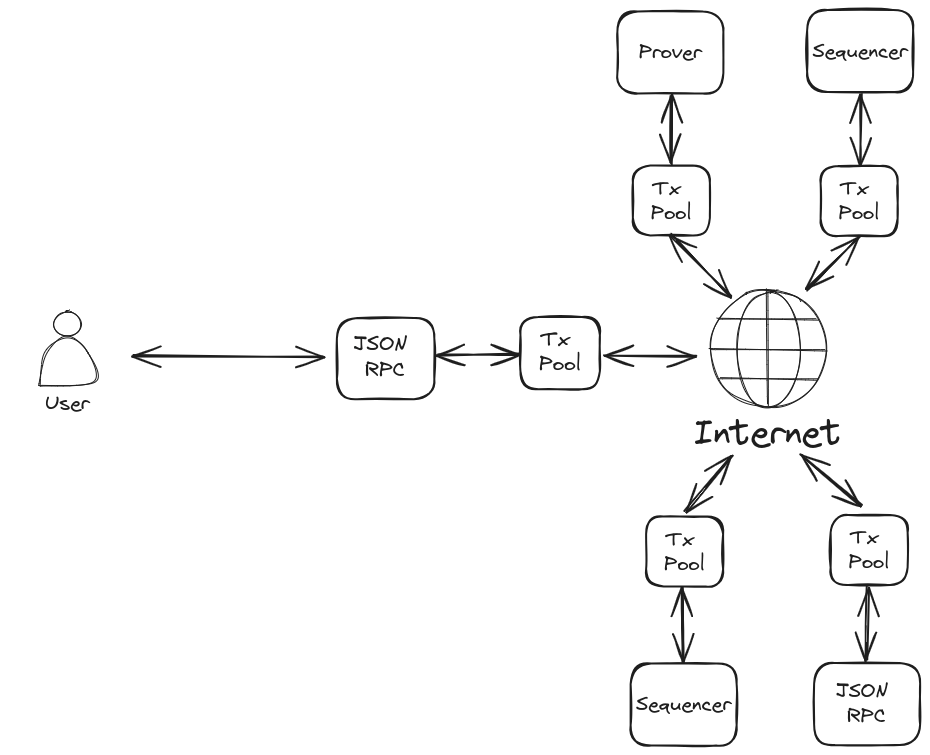
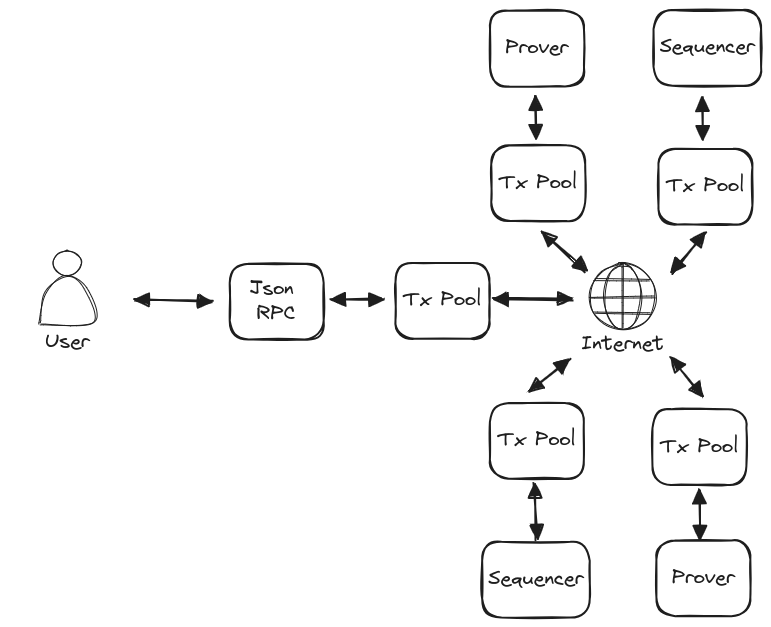
docs: Updated yellow paper P2P network. (AztecProtocol/aztec-packages#4652)
This PR contains updates to the P2P section of the yellow paper.

Changed region(s): [[0.0311, 0.0, 0.9961, 1.0]]

diff --git a/yellow-paper/docs/decentralization/p2p-network.md b/yellow-paper/docs/decentralization/p2p-network.md
@@ -1,12 +1,18 @@
 # P2P Network
 
-<!-- Also incorporate Phil's latest hackmd on the p2p network, if his recommendations in that hackmd are agreed to be our approach -->
-
 ## Requirements for a P2P Network
 
 When a rollup is successfully published, the state transitions it produces are published along with it, making them publicly available. This broadcasted state does not depend on the Aztec network for its persistence or distribution. Transient data however, such as pending user transactions for inclusion in future rollups, does rely on the network for availability. It is important that the network provides a performant, permissionless and censorship resistant mechanism for the effective propagation of these transactions to all network participants. Without this, transactions may be disadvantaged and the throughput of the network will deteriorate.
 
-Other data that may be transmitted over the network are the final rollup proofs to be submitted to the rollup contract, however the size and rate of these payloads should not make any meaningful impact on the bandwidth requirements.
+We can derive the following broad requirements of the P2P network.
+
+1. Support a node count up to approximately 10000.
+2. Enable new participants to join the network in a permissionless fashion.
+3. Propagate user transactions quickly and efficiently, throughout the network.
+4. Provide protection against DoS, eclipse and sybil attacks.
+5. Support a throughput of at least 10 transactions per second.
+6. Support transaction sizes of ~40Kb.
+7. Minimise bandwidth requirements overall and on any given node.
 
 ### Network Participants
 
@@ -17,41 +23,180 @@ For the purpose of this discussion, we define the 'Aztec Network' as the set of 
 - Transaction Pool Nodes - responsible for maintaining a local representation of the pending transaction pool
 - Bootnodes - responsible for providing an entrypoint into the network for new participants
 
-Sequencers and Provers will likely run their own transaction pools but it is important that the ability to do so is not limited to these participants. Anyone can operate a transaction pool, providing increased privacy and censorship resistance.
+These participants will likely operate an instance of the [Aztec Node](./actors.md) configured for their specific purpose. The Transaction Pool Node listed above is intended to describe a node with the minimum amount of functionality required to fulfill the needs of a PXE. Namely access to the global transaction pool and an up-to-date instance of the [state](../state/index.md).
 
-Client PXEs will not interact directly with the network but instead via instances of the Aztec Node and it's JSON RPC interface. The Aztec Node in turn will publish user transactions to the network.
+Anyone can operate an instance of the Aztec Node configured to serve their needs, providing increased privacy and censorship resistance.
 
-### Network Topology and Transaction Submission
-
-The network will likely be based on the LibP2P specification.
-
-#### Discovery
-
-When a node such as a sequencer joins the network for the first time it will need to contact a bootnode. This will be one of a hardcoded set of nodes whose sole purpose is to provide an initial set of peers to connect with. Once a node has made contact with and stored address data for a number of peers it should no longer need to contact the bootnodes, provided it's peers remain available.
-
-#### Gossip
-
-Transactions will need to be propagated throughout the network, to every participant. Due to the size of the transaction payloads it will be necessary to ensure that transaction propagation is performed as efficiently as possible taking steps to reduce the amount of redundant data transfer.
-
-#### Client Interactions
-
-Aztec Node instances will offer a JSON RPC interface for consumption by a user's PXE. Part of this API will facilitate transaction submission directly to the node which will then forward it to the network via the transaction pool.
+Client PXEs will interact with instances of the Aztec Node via it's JSON RPC interface.
 
 ![P2P Network](./images/network.png)
 
-### Network Bandwidth
+### Transaction Size
 
-Transactions are composed of several data elements and can vary in size. The transaction size is determined largely by the private kernel proof and whether the transaction deploys any public bytecode. A typical transaction that: emits a private note and an unencrypted log, makes a public call and contains a valid proof, would consume approximately 40Kb of data. A transaction that additionally deploys a contract would need to transmit the public bytecode on top of this.
+[Transactions](../transactions/index.md) are composed of several data elements and can vary in size, determined largely by the private kernel proof and whether the transaction deploys any public bytecode. A typical transaction data footprint is shown in the following table. Any deployed contract bytecode would be in addition to this.
 
 | Element                                      | Size  |
 | -------------------------------------------- | ----- |
 | Public Inputs, Public Calls and Emitted Logs | ~8KB  |
 | Private Kernel Proof                         | ~32KB |
 
-If we take 2 values of transaction throughput of 10 and 100 transactions per second, we can arrive at average network bandwidth requirements of 400KB and 4000KB per second respectively.
 
 ### Sequencer-to-Prover Communication
 
 Proving is an out-of-protocol activity. The nature of the communication between sequencers and provers will depend entirely on the prover/s selected by the sequencer. Provers may choose to run their own Transaction Pool Node infrastructure so that they are prepared for generating proofs and don't need to receive this data out-of-band.
 
-Although proving is an out-of-protocol activity, it may be necessary for the final rollup proof to be gossiped over the P2P network such that anyone can submit it to the rollup contract.
+## LibP2P
+
+Aztec will build it's network on [LibP2P](https://docs.libp2p.io/) and the suite of technologies that it contains. LibP2P has demonstrated it's capabilities as the set of protocols employed by Ethereum's consensus layer. Clients of the network will need to use a subset of LibP2P's protocols.
+
+There will be 2 primary communication domains within the network:
+
+1. Node Discovery
+2. Transaction Gossip
+
+### Node Discovery
+
+When new participants join the network for the first time, they will need to locate peers. Ethereum's [DiscV5](https://github.com/ethereum/devp2p/blob/master/discv5/discv5.md) is an adaptation of Kademlia, storing node records rather than content within its distributed hash table. From this, nodes are able to build what can be thought of as an address book of other participants.
+
+#### DiscV5
+
+Whilst the DiscV5 specification is still under development, the protocol is currently in use by Ethereum's consensus layer with 100,000s of participants. Nodes maintain a DHT routing table of Ethereum Node Records (ENRs), periodically flushing nodes that are no longer responsive and searching for new nodes by requesting records from their neighbours.
+
+Neighbours in this sense are not necessarily in geographical proximity. Node distance is defined as the bitwise XOR of the nodes 32 bit IDs.
+
+```
+distance(Id1, Id2) = Id1 XOR Id2
+```
+
+In some situations these distances are placed into buckets by taking the logarithmic distance.
+
+```
+log_distance(Id1, Id2) = log2(distance(Id1, Id2))
+```
+
+In principle, an ENR is simply an arbitrary set of key/value pairs accompanied by a sequence number and signed by the author node's private key. In order to be included in and propagated around the DHT, the ENR must contain the node's dialable IP address and port.
+
+##### Transport
+
+The underlying transport for DiscV5 communication is UDP. Whilst UDP is not reliable and connectionless, it has much lower overhead than TCP or other similar protocols making it ideal for speculative communication with nodes over the discovery domain. It does mean that UDP communication is a requirement for nodes wishing to participate.
+
+##### Bootstrapping
+
+When a node wishes to join the network for the first time. It needs to locate at least 1 initial peer in order to 'discover' other nodes. This role is performed by known public 'bootnodes'. Bootnodes may not be full network participants, they may simply be entrypoints containing well populated routing tables for nodes to query. 
+
+##### Topics
+
+Topics are part of the DiscV5 specification, though the spec is as yet unfinished and implementations do not yet exist. The intention of topics is for the Ethereum P2P network to efficiently support any number of applications under the same discovery scheme. To date, many other applications use Ethereum's discovery network but the only way to 'discover' other nodes for the same application is to query nodes at random and interrogate them. Topics will allow this to be done more efficiently with nodes being able to 'advertise' themselves as supporting specific applications across the network. 
+
+##### DiscV5 on Aztec
+
+:::danger
+The intention here is to use Ethereum's DiscV5 discovery network. This has not bees prototyped and is as yet untested. The alternative would be for Aztec nodes to form their own DiscV5 network, which would still work but wouldn't inherit the security proprties of Ethereum's. We need to more work to understand this.
+:::
+
+Using Ethereum's DiscV5 network will have significant benefits for Aztec. Network security and resistance to censorship, sybil and eclipse attacks grows as the network gets larger. In the early days of the network, node discovery may be slow as the number of Aztec nodes will be small as a proportion of the network. This can be better understood with the deployment of testnets. Over time, as the network grows and we hopefully see the introduction of topics this node discovery process will improve.
+
+##### Aztec ENRs
+
+The node record for an Aztec node will contain the following key/value pairs. The network endpoints don't all need to be specified but nodes will require at least one ip address and port. The public key is required to verify the signature included with the node record. The id is the identity scheme with "v4" being that currently used by Ethereum.
+
+
+| key | value |
+| -------- | -------- |
+| id     | "v4"     |
+| secp256k1     | The node's public key     |
+| ip     | ipv4 address     |
+| tcp     | tcp port     |
+| ip6     | ipv6 address     |
+| tcp6     | tcp port for v6 address     |
+| aztec | The aztec chain id |
+| eth | The ethereum chain id |
+
+### Transaction Gossip
+
+#### Transports
+
+LibP2P clients specify 1 or more types of transport for communicating with other nodes. Clients must specify at least the TCP transport for use within the Aztec Network. Clients may optionally specify other, more sophisticated transports but it is not guaranteed that other nodes will support them.
+
+Clients must accept connections on either IPV4, IPV6 or both. They must be able to dial both IPv4 and IPV6 addresses.
+
+Clients behind a NAT must be publically dialable and they must provide their publically dialable endpoint in their ENR. They must have their infrastructure configured to route traffic received at the dialable endpoint to the local listener.
+
+#### Multiplexing
+
+LibP2P supports the multiplexing of stream based transports such as TCP. There are 2 widely implemented multiplexing modules within LibP2P, [mplex](https://docs.libp2p.io/concepts/multiplex/mplex/) and the more sophisticated [yamux](https://docs.libp2p.io/concepts/multiplex/yamux/). Clients must be configured to support mplex and may choose to support yamux.
+
+#### Encryption handshake
+
+Communication between nodes within LibP2P is encrypted. This is important to protect individual nodes and the network at large from malicious actors. Establishing keys requires a secure handshake protocol. Client's must specify LibP2P's [noise](https://docs.libp2p.io/concepts/secure-comm/noise/) protocol for this purpose. 
+
+#### GossipSub
+
+LibP2P's [GossipSub](https://docs.libp2p.io/concepts/pubsub/overview/) is a protocol that provides efficient propagation of transient messages to all participants of the gossip domain. Peers congregate around topics that they subscribe to and publish on the network. Each topic's network is further divided into 2 layers of peering.
+
+1. Full Message Peers - A sparsely connected network gossiping the complete contents of every message
+2. Metadata Only Peers - A densely connected network gossiping only message metadata
+
+Peerings are bidirectional, meaning that for any two connected peers, both peers consider their connection to be full-message or both peers consider their connection to be metadata-only.
+
+Either peer can change the type of connection in either direction at any time. Peers periodically evaluate their peerings and attempt to balance the number of each type of peering to a configured range. The peering degree being the configured optimal number of full messages peers for each node. Generally speaking, a higher peering degree will result in faster message propagation to all peers at the expense of increased message duplication.
+
+These layers ensure that all messages are efficiently propagated throughout the network whilst significantly reducing redundant traffic and lowering bandwidth requirements.
+
+##### Peer Scoring
+
+To maintain the health of the network, peers are scored based on their behaviour. Peers found to misbehave are penalised on a sliding scale from a reluctance to convert them to full message peers to refusing to gossip with them altogether.
+
+##### Message Validation
+
+The gossipsub protocol requests message validation from the application. Messages deemed invalid are discarded and not propagated further. The application can specify whether the validation failure warrants the source peer being penalised for transmitting it.
+
+##### Message Cache
+
+Clients maintain a cache of recently seen messages from which other peers can request messages that they haven't received. Typically this would be used by metadata only peers who haven't received the complete message to do so. Messages are held in the cache for a configurable length of time, though this is usually just a few seconds.
+
+#### GossipSub on Aztec
+
+Aztec will use LibP2P's GossipSub protocol for transaction propagation. Nodes must support this protocol along with the v1.1 extensions and publish/subscribe to the topic `/aztec/{aztec-chainid}/tx/{message-version}`. The inclusion of `{message-version}` within the topic allows for the message specification to change and clients of the network will have to migrate to the new topic. We will aim to strike a balance between message propagation speed and lowering overall bandwidth requirements. Aztec block times will typically be 5-10 minutes so provided the network operates quickly enough for a user's transaction to be considered for inclusion in the 'next' block, the network can be optimised to reduce redundant gossiping.
+
+The table below contains some of the relevant configuration properties and their default values. These parameters can be validated on testnet but it is expected that for the Aztec network, clients would use similar values, perhaps reducing peering degree slightly to favour reduced bandwidth over message propagation latency.
+
+
+| Parameter | Description | Value |
+| -------- | -------- | -------- |
+| D     | The desired peering degree     | 6     |
+| D_low     | The peering degree low watermark     | 4     |
+| D_high     | The peering degree high watermark     | 12     |
+| heartbeat_interval     | The time between heartbeats*     | 1 second     |
+| mcache_len     | The number of history windows before messages are ejected from cache     | 5     |
+| mcache_gossip     | The number of history windows for messages to be gossiped     | 3     |
+
+(*)Several things happen at the heartbeat interval:
+
+1. The nature of peerings are evaluated and changed if necessary
+2. Message IDs are gossiped to a randomly selected set of metadata only peers
+3. The message cache is advanced by a history window
+
+##### Aztec Message Validation
+
+Because Aztec transactions are significant in size, it is important to ensure that invalid messages are not propagated.
+
+All of the [transaction validity conditions](../transactions//validity.md) must be verified at the point a message is received and reported to the protocol.
+
+Peers sending messages that breach any of the validity conditions should be penalised for doing so using the peer scoring system within the protocol. For nullifier validations, a grace period should be applied such that transactions containing nullifiers within very recently published blocks do not warrant a penalty being applied. It is important however that clients don't join the gossip protocol until they are fully synched with the chain, otherwise they risk being punished for unknowingly publishing invalid transactions.
+
+#### Aztec Message Encoding
+
+The [transaction object](../transactions/index.md) contains a considerable amount of data, much of it in the format of variable length vectors of fixed 32 byte wide fields. We will encode this object using [SSZ](https://ethereum.org/developers/docs/data-structures-and-encoding/ssz), the encoding used by Ethereum's consensus layer. This format requires a pre-defined schema but encodes the payload such that it is very efficient to deserialise reducing the burden on clients to validate messages at the point of receipt.
+
+Messages may then be compressed using [Snappy](https://github.com/google/snappy). Much of the payload may be uncompressable due to the random nature of it. We will validate this during testing. Whilst Snappy's compression is not as good as other algorithms such as zip, it offers an order of magnitude greater performance.
+
+#### Synchronising With The Transaction Pool
+
+GossipSub does not include a mechanism for synchronising the global set of messages at a given time. It is designed as a system to gossip transient data and messages are removed from caches after only a few seconds. We won't provide an additonal protocol to perform an immediate synchronisation of the transaction pool via the P2P network. Whilst this might be desirable, we have the following rationale for not facilitating this.
+
+1. Aztec transactions are large, approximately 40Kb. Downloading the entire pool would require transferring in the order of 100s of MB of data. At best this is undesirable and at worst it represents a DoS vector.
+
+2. It is largely redundant. At the point at which a node joins the network, it is likely that production of a block is already underway and many of the transactions that would be downloaded will be removed as soon as that block is published. 
+
+3. Clients will naturally synchronise the transaction pool by joining the gossiping network and waiting for 1 or 2 blocks. New transactions will be received into the client's local pool and old transactions unknown to the client will be removed as blocks are published.
